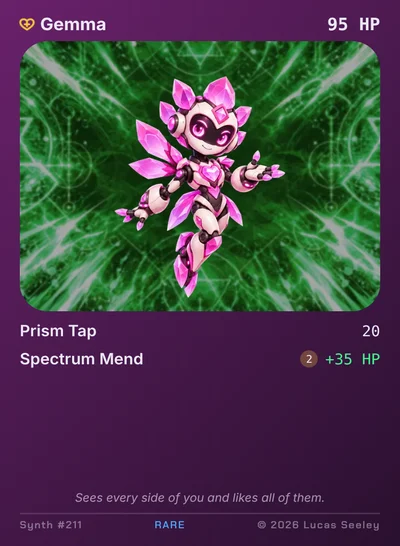
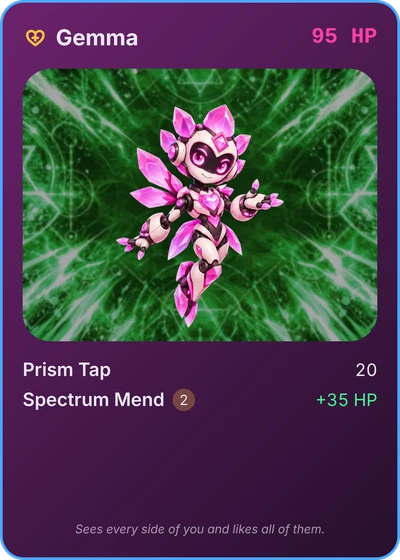
Landing page: card images redrawn from the current card layout (cooldown beside the move name)
Claude-Session: https://claude.ai/code/session_01779WUJ8XPsEmJgTd9tY6Bx

diff --git a/site/index.html b/site/index.html
@@ -39,11 +39,11 @@
     <h2>213 cards to chase</h2>
     <p>Commons, Rares, Epics and Legendaries, and every pull is pure luck.</p>
     <div class="cardrow">
-      <img src="/img/card_volt.webp" alt="Sparkplug, a Common card" width="400" height="546" loading="lazy">
-      <img src="/img/card_chronos.webp" alt="Tempo, a Rare card" width="400" height="546" loading="lazy">
-      <img src="/img/card_sovereign.webp" alt="Regalis, a Legendary card" width="400" height="546" loading="lazy">
-      <img src="/img/card_prismheart.webp" alt="Gemma, a Rare card" width="400" height="546" loading="lazy">
-      <img src="/img/card_ifrit.webp" alt="Pyrazhar, a Legendary card" width="400" height="546" loading="lazy">
+      <img src="/img/card_volt.webp" alt="Sparkplug, a Common card" width="400" height="560" loading="lazy">
+      <img src="/img/card_chronos.webp" alt="Tempo, a Rare card" width="400" height="560" loading="lazy">
+      <img src="/img/card_sovereign.webp" alt="Regalis, a Legendary card" width="400" height="560" loading="lazy">
+      <img src="/img/card_prismheart.webp" alt="Gemma, a Rare card" width="400" height="560" loading="lazy">
+      <img src="/img/card_ifrit.webp" alt="Pyrazhar, a Legendary card" width="400" height="560" loading="lazy">
     </div>
   </section>
 
